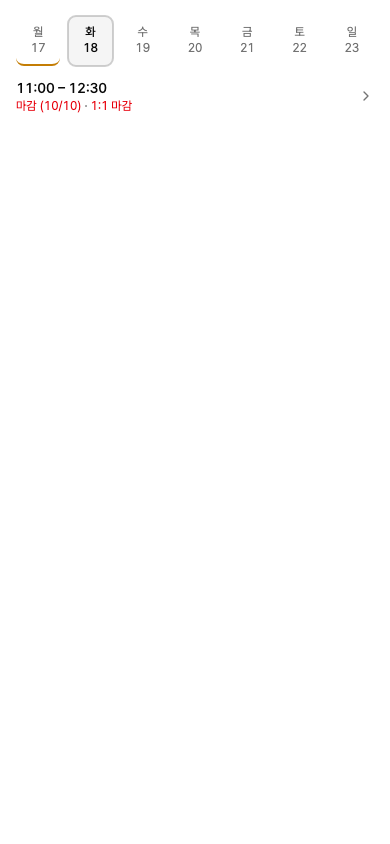
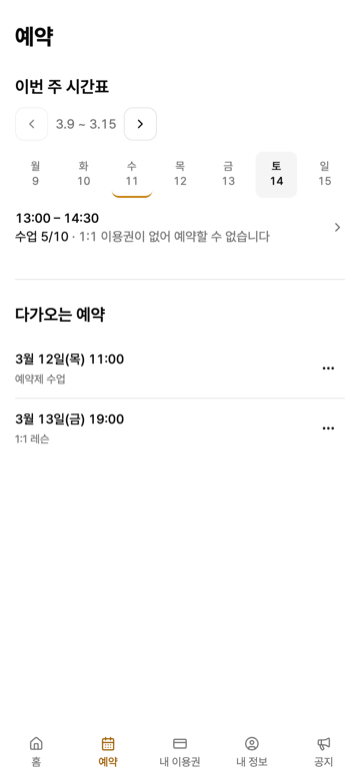
docs: README를 한눈에 보는 구성으로 재작성, 회원 캡처 6장·활동 피드를 실제 앱 화면으로 교체
- README: 소개·사이트 링크·대표 컷 2장·수치 한 줄(2026-09-17 실측) 구성
- 회원 캡처 6장을 FE dev(b3fed8b) 실제 앱으로 재촬영 — home-mobile 플레이스홀더 해소
- admin-activity-desktop도 셸이 있는 실제 화면으로 교체
- SHOTS_VERSION 20260917-2, CAPTURE-LIST·TODO 갱신

diff --git a/.vitepress/theme/Landing.vue b/.vitepress/theme/Landing.vue
@@ -3,7 +3,7 @@ import { onMounted } from 'vue'
 import { withBase } from 'vitepress'
 
 // 같은 파일명으로 캡처를 교체하면 이 값을 올린다 — 브라우저·CDN 캐시가 옛 이미지를 붙잡지 않게 한다
-const SHOTS_VERSION = '20260917'
+const SHOTS_VERSION = '20260917-2'
 const shot = (name) => `${withBase(`/shots/${name}`)}?v=${SHOTS_VERSION}`
 
 onMounted(() => {
@@ -78,7 +78,7 @@ onMounted(() => {
             <figure><img :src="shot('schedule-mobile.png')" alt="시간표" loading="lazy"><figcaption>주간 시간표</figcaption></figure>
             <figure><img :src="shot('slot-sheet-mobile.png')" alt="예약" loading="lazy"><figcaption>예약 시트</figcaption></figure>
             <figure><img :src="shot('passes-mobile.png')" alt="이용권" loading="lazy"><figcaption>이용권·차감 이력</figcaption></figure>
-            <figure><img :src="shot('my-reservations-mobile.png')" alt="내 예약" loading="lazy"><figcaption>내 예약</figcaption></figure>
+            <figure><img :src="shot('my-reservations-mobile.png')" alt="내 예약" loading="lazy"><figcaption>내 예약 · 변경·취소</figcaption></figure>
           </div>
         </div>
         <div class="role">

diff --git a/CAPTURE-LIST.md b/CAPTURE-LIST.md
@@ -1,7 +1,7 @@
 # 스크린샷 · GIF 촬영 목록
 
 사이트 홈(`Landing.vue`)과 `highlights/ui-audit.md`에 쓰는 캡처·데모 GIF 목록. 마지막 갱신 2026-09-17.
-회원 화면 PNG는 아직 FE `docs/pr-assets`의 PR 검토용 캡처를 줄인 임시본이다. 관리자 5장과 before/after 두 쌍은 2026-09-17에 FE dev(`b3fed8b`) 실제 앱(pnpm dev + MSW)으로 재촬영했다.
+랜딩에 걸린 회원 6장·관리자 6장과 before/after 두 쌍은 2026-09-17에 FE dev(`b3fed8b`) 실제 앱(pnpm dev + MSW)으로 재촬영했다. 랜딩에 쓰지 않는 예비 파일(`notice-mobile`, `profile-mobile`, `admin-shell-mobile` 등)은 PR 검토용 캡처를 줄인 임시본 그대로다.
 
 규격
 - 모바일: 390×844 (iPhone 14 뷰포트), DPR 2로 찍고 360~390px 폭으로 리사이즈. 상태바 없이 앱 영역만.
@@ -12,18 +12,20 @@
 - 방문 순서는 FE 감사 하네스(`e2e/audit/harness.ts`)와 같다: `clock.install(기준시각−1분)` → 인증 시드 → 뷰포트 → `goto` → 스켈레톤 0 대기 → (오버레이 열기) → `clock.pauseAt(2026-03-11T01:00:00Z)`. 기준 시각은 수요일 오전 10:00 KST.
 - 교체 후에는 캐시 버전을 올린다: `Landing.vue`의 `SHOTS_VERSION`, 마크다운에 직접 쓴 `<img>`는 `?v=YYYYMMDD`.
 
-## 회원 화면 — 지금 촬영 가능
+## 회원 화면
+
+모바일 390×844를 DPR 2로 찍어 360px 폭으로 줄였다. 기준 시각이 수요일(3/11)이라 예약 가능한 슬롯은 그 뒤 요일에서 고른다 — 토요일 13:00 `수업 5/10`. 월요일 슬롯은 과거인데도 목 데이터상 예약 버튼이 떠서 쓰지 않는다.
 
 | # | 화면 | 시나리오 | 형식 | 저장 파일 | 상태 |
 | --- | --- | --- | --- | --- | --- |
-| M1 | 로그인 | 랜딩 → 카카오 버튼 노출 | PNG | public/shots/login-mobile.png | 임시본 있음 |
+| M1 | 로그인 | 랜딩 → 카카오 버튼 노출 | PNG | public/shots/login-mobile.png | 완료(2026-09-17) |
 | M2 | 온보딩 | 이름·전화번호 입력 → 검증 오류 → 제출 | PNG ×2 | public/shots/onboarding-mobile.png | 미촬영 |
 | M3 | 승인 대기 | PENDING 상태 안내 | PNG | public/shots/pending-mobile.png | 미촬영 |
-| M4 | 홈 | 잔여 횟수 + 이번 주 예약 | PNG | public/shots/home-mobile.png | 임시본 있음 |
-| M5 | 시간표 | 주 이동 → 슬롯 상태(예약 가능/마감/휴강/당일) | PNG | public/shots/schedule-mobile.png | 임시본 있음 |
-| M6 | 예약 시트 | 슬롯 탭 → 시트 → 예약 확정 → 잔여 차감 반영 | PNG + GIF | public/shots/slot-sheet-mobile.png, demo-member-reserve.gif | 임시본 있음 / GIF 미촬영 |
-| M7 | 내 예약 | 목록 → 취소 → 복구 확인 | GIF | demo-member-cancel.gif | 미촬영 |
-| M8 | 이용권 | 보유 이용권 + 차감 이력(0.5 단위) | PNG | public/shots/passes-mobile.png | 임시본 있음 |
+| M4 | 홈 | 잔여 횟수 + 이번 주 예약 | PNG | public/shots/home-mobile.png | 완료(2026-09-17) |
+| M5 | 시간표 | 주 이동 → 슬롯 상태(예약 가능/마감/휴강/당일) | PNG | public/shots/schedule-mobile.png | 완료(2026-09-17) · 토요일 선택 |
+| M6 | 예약 시트 | 슬롯 탭 → 시트 → 예약 확정 → 잔여 차감 반영 | PNG + GIF | public/shots/slot-sheet-mobile.png, demo-member-reserve.gif | PNG 완료(2026-09-17) · 토요일 13:00 셀. README 대표 컷 / GIF 미촬영 |
+| M7 | 내 예약 | 목록 → 취소 → 복구 확인 | PNG + GIF | public/shots/my-reservations-mobile.png, demo-member-cancel.gif | PNG 완료(2026-09-17) · `/reservations`에서 예약 메뉴(변경·취소)를 연 상태 / GIF 미촬영 |
+| M8 | 이용권 | 보유 이용권 + 차감 이력(0.5 단위) | PNG | public/shots/passes-mobile.png | 완료(2026-09-17) · `/passes/1` 상세(차감·복구 이력) |
 | M9 | 공지 | 목록 → 상세 | PNG | public/shots/notice-mobile.png | 미촬영 |
 | M10 | 데스크탑 시간표 | 주간 그리드 | PNG 720 | public/shots/schedule-desktop.png | 미촬영 |
 
@@ -32,7 +34,7 @@
 
 ## 관리자 화면
 
-랜딩(Landing.vue 서비스 화면 · 관리자)에 걸린 6장 중 5장을 Phase 10 기계 검증 통과(2026-09-17) 직후 같은 파일명으로 재촬영했다. 데스크탑 1280×800·모바일 390×844를 DPR 2로 찍어 720px·360px 폭으로 줄였다. 실기기 확인(Phase 11 VERI-03)에서 화면이 다시 바뀌면 한 번 더 찍는다.
+랜딩(Landing.vue 서비스 화면 · 관리자)에 걸린 6장을 Phase 10 기계 검증 통과(2026-09-17) 직후 같은 파일명으로 재촬영했다. 데스크탑 1280×800·모바일 390×844를 DPR 2로 찍어 720px·360px 폭으로 줄였다. 실기기 확인(Phase 11 VERI-03)에서 화면이 다시 바뀌면 한 번 더 찍는다.
 
 | 파일 | 촬영 조건 | 상태 |
 | --- | --- | --- |
@@ -41,7 +43,7 @@
 | public/shots/admin-roster-desktop.png | `/admin` 1280 → 목요일 19:00 셀(`수업 4/10`) 명단 패널. 저녁반·예약제·1:1이 한 패널에 있는 셀 | 완료(2026-09-17) |
 | public/shots/admin-approve-desktop.png | `/admin/members?status=PENDING&onboardingCompleted=true` 1280. MSW 기본 핸들러가 `status` 필터를 무시하므로 서비스 워커를 막고 픽스처에서 PENDING만 거른 응답을 스텁(하네스 B 방식) | 완료(2026-09-17) |
 | public/shots/admin-member-detail-desktop.png | `/admin/members/1` 1280 | 완료(2026-09-17) |
-| public/shots/admin-activity-desktop.png | phase-05-exec-d 스토리 캡처(셸 없음). 랜딩에 걸려 있음 | 미교체 — 다음 촬영 때 `/admin/activity` 1280으로 |
+| public/shots/admin-activity-desktop.png | `/admin/activity` 1280 | 완료(2026-09-17) |
 | public/shots/admin-shell-mobile.png · admin-members-desktop.png · admin-reservations-desktop.png · admin-notice-desktop.png · admin-attendance.png | 미사용(예비) | 사용 시 재촬영 |
 
 | # | 화면 | 시나리오 | 형식 | 저장 파일 | 상태 |

diff --git a/README.md b/README.md
@@ -1,25 +1,38 @@
-# gold-wrestling-docs
+# 골드레슬링 — 체육관 회원·예약 서비스
 
-골드레슬링 프로젝트의 포트폴리오·문서 사이트입니다. 레슬링 체육관의 회원·이용권·예약을 관리하는 웹 서비스를 어떻게 설계하고 검증했는지, 프론트엔드와 백엔드로 나누어 정리했습니다.
+레슬링 체육관의 회원·이용권·예약을 관리하는 풀스택 웹 서비스입니다.
+요구사항·도메인 정책·아키텍처 설계와 검증 게이트는 직접 담당하고,
+구현은 AI 에이전트(Claude Code + GSD)와 협업한 1인 프로젝트의 기록입니다.
 
-**사이트: https://minsu-zip.github.io/gold-wrestling-docs/**
+**📄 사이트에서 보기 → https://minsu-zip.github.io/gold-wrestling-docs/**
+
+<p>
+  <img src="public/shots/slot-sheet-mobile.png" alt="회원 예약 화면(모바일)" width="240">
+  <img src="public/shots/admin-board-desktop.png" alt="관리자 주간 보드(데스크탑)" width="520">
+</p>
+
+v1.0 요구사항 85건 충족 · 의사결정 기록 194건 · BE 테스트 885건 · FE 테스트 1,673건
+(2026-09-17, 두 레포 실측 기준)
 
 ## 무엇이 있나
 
 | 페이지 | 내용 |
 | --- | --- |
-| [홈](https://minsu-zip.github.io/gold-wrestling-docs/) | 서비스 소개, 수치, 프론트엔드(화면·아키텍처·트러블슈팅·UI 검사), 백엔드(핵심 설계·배포), 타임라인 |
+| [홈](https://minsu-zip.github.io/gold-wrestling-docs/) | 서비스 소개, 수치, FE/BE 파트(화면·아키텍처·트러블슈팅·UI 검사·핵심 설계), 타임라인 |
 | [프로젝트 현황](https://minsu-zip.github.io/gold-wrestling-docs/status/) | 완료·진행 예정·인프라 준비 상태. 마일스톤마다 갱신 |
-| [하이라이트](https://minsu-zip.github.io/gold-wrestling-docs/highlights/concurrency) | 동시성 제어 · 멱등 배치 · 계약 기반 협업 · UI 감사 파이프라인. 문제 → 결정 → 검증 순서 |
+| [하이라이트](https://minsu-zip.github.io/gold-wrestling-docs/highlights/concurrency) | 동시성 제어 · 멱등 배치 · 계약 기반 협업 · UI 감사 — 문제 → 결정 → 검증 |
 | [아키텍처](https://minsu-zip.github.io/gold-wrestling-docs/architecture) | 현재 구조와 배포 목표 구성 |
-| [AI 협업 워크플로](https://minsu-zip.github.io/gold-wrestling-docs/ai-workflow/) | 요구사항·정책·검증은 사람이, 구현은 AI 에이전트가 맡은 방식과 산출물 |
+| [AI 협업 워크플로](https://minsu-zip.github.io/gold-wrestling-docs/ai-workflow/) | 사람이 결정·검증하고 AI가 구현한 방식과 실제 산출물 |
 
 ## 원본 레포
 
-- 프론트엔드: [gold-wrestling-fe](https://github.com/minsu-zip/gold-wrestling-fe) — React 19 · TypeScript · Vite · TanStack Query · Storybook · Playwright
-- 백엔드: [gold-wrestling-be](https://github.com/minsu-zip/gold-wrestling-be) — Kotlin · Spring Boot 4.1 · PostgreSQL · Flyway
+- 프론트엔드 [gold-wrestling-fe](https://github.com/minsu-zip/gold-wrestling-fe) —
+  React 19 · TypeScript · Vite · TanStack Query · Storybook · Playwright
+- 백엔드 [gold-wrestling-be](https://github.com/minsu-zip/gold-wrestling-be) —
+  Kotlin · Spring Boot 4.1 · PostgreSQL · Flyway
 
-사이트의 수치와 결정 번호(D-xxx)는 두 레포의 `docs/`와 `.planning/`을 기준으로 합니다. 결정 기록 전체는 [gold-wrestling-be/docs/decisions.md](https://github.com/minsu-zip/gold-wrestling-be/blob/dev/docs/decisions.md)에 있습니다.
+사이트의 수치와 결정 번호(D-xxx)는 두 레포의 `docs/`와 `.planning/`이 정본입니다.
+결정 기록 전체: [decisions.md](https://github.com/minsu-zip/gold-wrestling-be/blob/dev/docs/decisions.md)
 
 ## 로컬 실행
 

diff --git a/highlights/ui-audit.md b/highlights/ui-audit.md
@@ -30,13 +30,13 @@ title: UI 감사 파이프라인
 ## 결과
 
 <div class="shots wide">
-  <figure><img src="/shots/weeknav-before.png?v=20260917" alt="주 이동 버튼 수정 전. 32×32로 기준 36px 미달"><figcaption><b>주 이동 · 수정 전</b> 화살표 32×32, 행 액션 기준 36px 미달. 공용 컴포넌트라 관리자 보드에도 같은 위반</figcaption></figure>
-  <figure><img src="/shots/weeknav-after.png?v=20260917" alt="주 이동 버튼 수정 후. 36×36으로 기준 통과"><figcaption><b>수정 후</b> 36×36. 재감사에서 관리자 보드 항목이 함께 닫힘. 테두리와 수치는 감사 도구의 실측값을 캡처 위에 표시한 것</figcaption></figure>
+  <figure><img src="/shots/weeknav-before.png?v=20260917-2" alt="주 이동 버튼 수정 전. 32×32로 기준 36px 미달"><figcaption><b>주 이동 · 수정 전</b> 화살표 32×32, 행 액션 기준 36px 미달. 공용 컴포넌트라 관리자 보드에도 같은 위반</figcaption></figure>
+  <figure><img src="/shots/weeknav-after.png?v=20260917-2" alt="주 이동 버튼 수정 후. 36×36으로 기준 통과"><figcaption><b>수정 후</b> 36×36. 재감사에서 관리자 보드 항목이 함께 닫힘. 테두리와 수치는 감사 도구의 실측값을 캡처 위에 표시한 것</figcaption></figure>
 </div>
 <div class="shots">
-  <figure><img src="/shots/sheet-before.png?v=20260917" alt="긴 공지 폼 시트, 수정 전. 등록 버튼이 화면 아래로 밀려 보이지 않는다"><figcaption><b>Sheet 푸터 · 수정 전</b> 본문이 긴 폼에서 등록 버튼이 화면 밖으로 밀림</figcaption></figure>
-  <figure><img src="/shots/sheet-after.png?v=20260917" alt="같은 폼·같은 스크롤 위치, 수정 후. 닫기와 등록 버튼이 하단에 고정돼 있다"><figcaption><b>수정 후</b> 같은 데이터·같은 스크롤 위치. sticky + safe-area, 한 곳 수정으로 5화면 해소 (D-182)</figcaption></figure>
-  <figure><img src="/shots/login-mobile.png" alt="로그인"><figcaption><b>로그인</b> 카카오 CTA 하단 고정 (D-180)</figcaption></figure>
+  <figure><img src="/shots/sheet-before.png?v=20260917-2" alt="긴 공지 폼 시트, 수정 전. 등록 버튼이 화면 아래로 밀려 보이지 않는다"><figcaption><b>Sheet 푸터 · 수정 전</b> 본문이 긴 폼에서 등록 버튼이 화면 밖으로 밀림</figcaption></figure>
+  <figure><img src="/shots/sheet-after.png?v=20260917-2" alt="같은 폼·같은 스크롤 위치, 수정 후. 닫기와 등록 버튼이 하단에 고정돼 있다"><figcaption><b>수정 후</b> 같은 데이터·같은 스크롤 위치. sticky + safe-area, 한 곳 수정으로 5화면 해소 (D-182)</figcaption></figure>
+  <figure><img src="/shots/login-mobile.png?v=20260917-2" alt="로그인"><figcaption><b>로그인</b> 카카오 CTA 하단 고정 (D-180)</figcaption></figure>
 </div>
 
 ## 검증

diff --git a/TODO.md b/TODO.md
@@ -12,8 +12,7 @@
 ## FE Phase 11 (검증) 완료 후
 
 - [ ] **데모 GIF 2건 촬영** — 회원 예약 플로우 `public/demo-member.gif`, 관리자 플로우 `public/demo-admin.gif`. 규격·시나리오는 `CAPTURE-LIST.md`. 촬영 후 `Landing.vue` 히어로 아래에 배치(현재는 정지 캡처만으로 성립하므로 급하지 않음).
-- [ ] **최종 재캡처 여부 판단** — Phase 11 실기기 확인(VERI-03, Phase 10에서 넘어온 7항목 포함)에서 화면이 바뀌면 2026-09-17에 찍은 관리자 5장과 before/after 두 쌍을 다시 찍는다. 바뀌지 않으면 그대로 둔다.
-- [ ] 회원 캡처를 최종 화면으로 재촬영 (`login-mobile` 등 v1.1 Phase 9 이전 임시본 포함). 같은 때 `admin-activity-desktop.png`도 셸이 있는 실제 앱 화면으로 교체.
+- [ ] **최종 재캡처 여부 판단** — Phase 11 실기기 확인(VERI-03, Phase 10에서 넘어온 7항목 포함)에서 화면이 바뀌면 2026-09-17에 찍은 회원 6장·관리자 6장과 before/after 두 쌍을 다시 찍는다. 바뀌지 않으면 그대로 둔다. README 대표 컷(`slot-sheet-mobile`, `admin-board-desktop`)도 같은 파일이라 함께 바뀐다.
 - [ ] 랜딩 "UI 감사" 수치 문구와 `status/index.md`에서 "실기기 확인 7항목만 남았습니다"를 결과로 교체.
 
 ## 마일스톤마다
@@ -24,5 +23,6 @@
 
 ## 완료
 
+- [x] 2026-09-17 회원 캡처 6장과 `admin-activity-desktop`을 실제 앱 화면으로 교체(`home-mobile` 플레이스홀더 해소), README를 한눈에 보는 구성으로 재작성.
 - [x] 2026-09-17 관리자 캡처 5장을 FE Phase 10 이후 화면으로 재촬영·교체, before/after 두 쌍 재작업, 수치·현황·타임라인 갱신.
 - [x] 2026-09-11 푸터 GitHub 프로필 링크, 계약 기반 협업 상세 페이지 복원.
